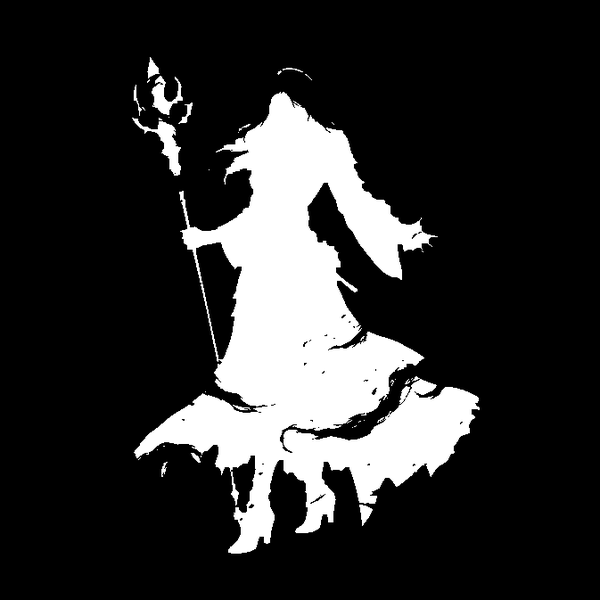
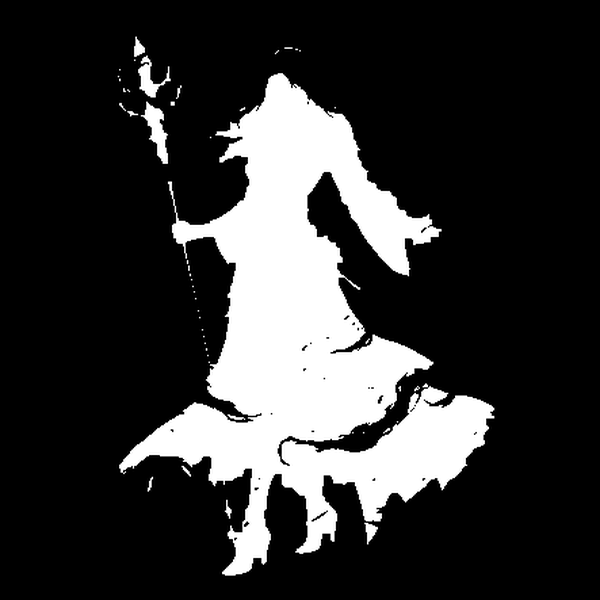
fix: remove panel-edge alpha artifacts

Changed region(s): [[0.21, 0.06, 0.75, 0.72], [0.18, 0.57, 0.78, 0.96], [0.6, 0.66, 0.84, 0.9]]

diff --git a/generate-transparent-image/scripts/recover_alpha.py b/generate-transparent-image/scripts/recover_alpha.py
@@ -68,6 +68,15 @@ def parse_args() -> argparse.Namespace:
         help="Pixels removed from the opaque-core mask edge before forcing alpha (default: 2).",
     )
     parser.add_argument(
+        "--edge-cleanup",
+        choices=("off", "auto", "aggressive"),
+        default="auto",
+        help=(
+            "Remove panel-border residue from guaranteed blank margins "
+            "(default: auto)."
+        ),
+    )
+    parser.add_argument(
         "--strict",
         action="store_true",
         help="Exit with status 2 when diagnostics grade the recovery as fail.",
@@ -372,20 +381,6 @@ def solve_rgba(
     foreground[alpha < 0.004] = 0.0
     alpha[alpha < 0.002] = 0.0
 
-    # Paired generations occasionally add a one-pixel canvas/seam highlight at
-    # the outer panel edge. Prompts require generous subject padding, so panel
-    # border pixels are guaranteed background and can be cleared safely. This
-    # prevents a thin vertical line from expanding the final content crop.
-    border_guard = max(1, int(round(min(alpha.shape) * 0.003)))
-    alpha[:border_guard] = 0.0
-    alpha[-border_guard:] = 0.0
-    alpha[:, :border_guard] = 0.0
-    alpha[:, -border_guard:] = 0.0
-    foreground[:border_guard] = 0.0
-    foreground[-border_guard:] = 0.0
-    foreground[:, :border_guard] = 0.0
-    foreground[:, -border_guard:] = 0.0
-
     active = valid & (alpha > 0.02)
     opaque_enough = valid & (alpha > 0.10)
     if int(active.sum()) < 16:
@@ -405,6 +400,106 @@ def solve_rgba(
     }
     rgba = np.dstack([foreground, alpha]).astype(np.float32)
     return rgba, residual_norm, metrics
+
+
+def _thin_runs(values: np.ndarray, maximum_width: int) -> list[tuple[int, int]]:
+    """Return half-open runs of true values no wider than maximum_width."""
+    padded = np.pad(values.astype(np.int8), (1, 1))
+    transitions = np.diff(padded)
+    starts = np.flatnonzero(transitions == 1)
+    ends = np.flatnonzero(transitions == -1)
+    return [
+        (int(start), int(end))
+        for start, end in zip(starts, ends)
+        if 0 < end - start <= maximum_width
+    ]
+
+
+def edge_artifact_mask(
+    alpha: np.ndarray, mode: str = "auto"
+) -> tuple[np.ndarray, dict[str, float]]:
+    """Detect frame/seam residue only inside guaranteed blank panel margins.
+
+    Generated paired masters sometimes contain a faint rectangular frame one
+    or two pixels inside a panel. A simple crop keeps that frame because it is
+    non-zero alpha. The prompt protocol requires subject padding, so clearing a
+    narrow outer guard and isolated long straight runs there is safer than
+    eroding the subject matte.
+    """
+    h, w = alpha.shape
+    if mode == "off":
+        return np.zeros((h, w), dtype=bool), {
+            "edge_cleanup_pixels_removed": 0.0,
+            "edge_cleanup_fraction_removed": 0.0,
+            "edge_cleanup_max_alpha_removed": 0.0,
+            "edge_cleanup_line_runs_removed": 0.0,
+            "edge_cleanup_guard_pixels": 0.0,
+        }
+
+    aggressive = mode == "aggressive"
+    short = min(h, w)
+    guard = max(2, int(round(short * (0.025 if aggressive else 0.015))))
+    scan = max(guard + 1, int(round(short * (0.12 if aggressive else 0.08))))
+    scan = min(scan, max(guard + 1, short // 3))
+    weak_limit = 0.10 if aggressive else 0.06
+    occupancy_limit = 0.35 if aggressive else 0.55
+    max_line_width = max(2, int(round(short * (0.020 if aggressive else 0.012))))
+    support = alpha > (0.008 if aggressive else 0.01)
+
+    edge_zone = np.zeros((h, w), dtype=bool)
+    edge_zone[:scan] = True
+    edge_zone[-scan:] = True
+    edge_zone[:, :scan] = True
+    edge_zone[:, -scan:] = True
+
+    removal = np.zeros((h, w), dtype=bool)
+    removal[:guard] = True
+    removal[-guard:] = True
+    removal[:, :guard] = True
+    removal[:, -guard:] = True
+    removal |= edge_zone & (alpha < weak_limit)
+
+    column_occupancy = support.mean(axis=0)
+    row_occupancy = support.mean(axis=1)
+    outer_columns = np.zeros(w, dtype=bool)
+    outer_rows = np.zeros(h, dtype=bool)
+    outer_columns[:scan] = True
+    outer_columns[-scan:] = True
+    outer_rows[:scan] = True
+    outer_rows[-scan:] = True
+
+    line_runs = 0
+    for start, end in _thin_runs(
+        outer_columns & (column_occupancy >= occupancy_limit), max_line_width
+    ):
+        removal[:, start:end] = True
+        line_runs += 1
+    for start, end in _thin_runs(
+        outer_rows & (row_occupancy >= occupancy_limit), max_line_width
+    ):
+        removal[start:end, :] = True
+        line_runs += 1
+
+    removed = removal & (alpha > 0.0)
+    removed_count = int(removed.sum())
+    return removal, {
+        "edge_cleanup_pixels_removed": float(removed_count),
+        "edge_cleanup_fraction_removed": float(removed_count / max(alpha.size, 1)),
+        "edge_cleanup_max_alpha_removed": float(alpha[removed].max())
+        if removed_count
+        else 0.0,
+        "edge_cleanup_line_runs_removed": float(line_runs),
+        "edge_cleanup_guard_pixels": float(guard),
+    }
+
+
+def apply_edge_cleanup(
+    rgba: np.ndarray, mode: str = "auto"
+) -> tuple[np.ndarray, np.ndarray, dict[str, float]]:
+    removal, metrics = edge_artifact_mask(rgba[..., 3], mode)
+    output = rgba.copy()
+    output[removal] = 0.0
+    return output, removal, metrics
 
 
 def parse_aspect(value: str | None) -> float | None:
@@ -695,6 +790,17 @@ def main() -> int:
         )
         metrics.update(material_metrics)
 
+    rgba, edge_removal, edge_metrics = apply_edge_cleanup(rgba, args.edge_cleanup)
+    soft_rgba = soft_rgba.copy()
+    soft_rgba[edge_removal] = 0.0
+    if core_mask is not None:
+        core_mask = core_mask.copy()
+        core_mask[edge_removal] = 0.0
+    if soft_mask is not None:
+        soft_mask = soft_mask.copy()
+        soft_mask[edge_removal] = 0.0
+    metrics.update(edge_metrics)
+
     aspect = parse_aspect(args.aspect)
     bounds = final_canvas_bounds(rgba[..., 3], aspect, args.padding)
     final_rgba = fit_to_bounds(rgba, bounds)
@@ -728,6 +834,7 @@ def main() -> int:
         "panel_size": [panel_width, panel_height],
         "final_size": [int(final_rgba.shape[1]), int(final_rgba.shape[0])],
         "requested_aspect": args.aspect,
+        "edge_cleanup": args.edge_cleanup,
         "estimated_black_rgb": [round(float(x), 6) for x in black],
         "estimated_white_rgb": [round(float(x), 6) for x in white],
         "backdrop_contrast": round(contrast, 6),

diff --git a/generate-transparent-image/tests/test_recover_alpha.py b/generate-transparent-image/tests/test_recover_alpha.py
@@ -36,6 +36,33 @@ def synthetic_subject(size: int = 72) -> tuple[np.ndarray, np.ndarray, np.ndarra
 
 
 class MaterialAwareRecoveryTests(unittest.TestCase):
+    def test_edge_cleanup_removes_panel_frame_without_eroding_subject(self) -> None:
+        size = 160
+        rgba = np.zeros((size, size, 4), dtype=np.float32)
+        rgba[45:120, 58:104, :3] = np.array([0.8, 0.4, 0.2], dtype=np.float32)
+        rgba[45:120, 58:104, 3] = 0.75
+        rgba[2, :, 3] = 0.05
+        rgba[:, 3, 3] = 0.07
+        rgba[:, -4, 3] = 0.42
+
+        cleaned, removed, metrics = RECOVER.apply_edge_cleanup(rgba, "auto")
+
+        self.assertTrue(np.all(cleaned[2, :, 3] == 0.0))
+        self.assertTrue(np.all(cleaned[:, 3, 3] == 0.0))
+        self.assertTrue(np.all(cleaned[:, -4, 3] == 0.0))
+        self.assertTrue(np.allclose(cleaned[45:120, 58:104], rgba[45:120, 58:104]))
+        self.assertTrue(np.all(removed[:, -4]))
+        self.assertGreaterEqual(metrics["edge_cleanup_line_runs_removed"], 1.0)
+        self.assertGreater(metrics["edge_cleanup_max_alpha_removed"], 0.4)
+
+    def test_edge_cleanup_can_be_disabled(self) -> None:
+        rgba = np.zeros((64, 64, 4), dtype=np.float32)
+        rgba[:, 1, 3] = 0.3
+        cleaned, removed, metrics = RECOVER.apply_edge_cleanup(rgba, "off")
+        self.assertTrue(np.array_equal(cleaned, rgba))
+        self.assertFalse(removed.any())
+        self.assertEqual(metrics["edge_cleanup_pixels_removed"], 0.0)
+
     def test_core_is_forced_opaque_while_soft_effect_stays_soft(self) -> None:
         left, right, core, effect = synthetic_subject()
         valid = np.ones(core.shape, dtype=bool)
@@ -108,6 +135,7 @@ class MaterialAwareRecoveryTests(unittest.TestCase):
             report = json.loads((root / "report.json").read_text(encoding="utf-8"))
             self.assertEqual(report["layout"], "material-2x2")
             self.assertEqual(report["core_alpha_p05_after"], 1.0)
+            self.assertEqual(report["edge_cleanup"], "auto")
             for name in [
                 "transparent.png",
                 "alpha.png",

diff --git a/generate-transparent-image/SKILL.md b/generate-transparent-image/SKILL.md
@@ -121,7 +121,7 @@ python3 <skill-dir>/scripts/recover_alpha.py \
 
 The script requires Pillow and NumPy. If the active `python3` lacks them, use the bundled workspace Python reported by `codex_app__load_workspace_dependencies`. Do not silently install packages into the user's environment.
 
-Omit `--aspect` when the user did not request one. Accepted forms include `1:1`, `4:5`, `16:9`, or a decimal. The script estimates actual backdrop colors from the border, aligns the right copy to the left, solves alpha against those backdrops, and writes a diagnostic report.
+Omit `--aspect` when the user did not request one. Accepted forms include `1:1`, `4:5`, `16:9`, or a decimal. The script estimates actual backdrop colors from the border, aligns the right copy to the left, solves alpha against those backdrops, and writes a diagnostic report. Its default `--edge-cleanup auto` removes faint frames and seam residue only inside the guaranteed blank panel margin. Use `--edge-cleanup aggressive` when a visible outer line survives; use `off` only when the requested subject intentionally touches the panel edge.
 
 ### 4. Inspect and gate quality
 
@@ -141,6 +141,7 @@ Treat diagnostic metrics as supporting evidence. High values help locate a probl
 - high `foreground_disagreement_p90`: demand the black and white panels differ only in background pixels;
 - clipping or excessive coverage: demand more padding and a smaller centered subject;
 - noisy background alpha: demand perfectly uniform `#000000` and `#FFFFFF` backgrounds.
+- nonzero `edge_cleanup_line_runs_removed`: inspect the outer margin; the script removed one or more long frame/seam traces without eroding the center matte;
 - low `semantic_support_recall`: demand masks cover every retained core and soft region;
 - high `core_outside_pair_support_fraction`: demand identical mask geometry and placement;
 - high `core_soft_overlap_fraction`: separate solid regions from intended translucent effects.
@@ -167,4 +168,4 @@ C0 = alpha * F + (1 - alpha) * B0
 C1 = alpha * F + (1 - alpha) * B1
 ```
 
-The script estimates `B0` and `B1` from the image border and solves the shared scalar alpha by least squares across RGB. For material-aware 2x2 inputs it registers the semantic masks, erodes the opaque-core boundary, forces only safe solid interiors to alpha 1, and replaces their RGB with the aligned black/white panel average. Soft effects retain pair-recovered alpha. Generative panels are rarely pixel-perfect, so diagnostics are intentionally tolerant and adversarial-background inspection is the final gate.
+The script estimates `B0` and `B1` from the image border and solves the shared scalar alpha by least squares across RGB. It then clears the guaranteed blank outer guard, suppresses weak edge-band noise, and removes only thin long frame/seam runs near panel boundaries. For material-aware 2x2 inputs it registers the semantic masks, erodes the opaque-core boundary, forces only safe solid interiors to alpha 1, and replaces their RGB with the aligned black/white panel average. Soft effects retain pair-recovered alpha. Generative panels are rarely pixel-perfect, so diagnostics are intentionally tolerant and adversarial-background inspection is the final gate.

diff --git a/README.md b/README.md
@@ -4,7 +4,7 @@ A Codex skill for creating straight-alpha PNG assets from text prompts or refere
 
 It renders the subject over black and white in one generated master, aligns both copies, solves alpha locally, and validates the result on checker, black, white, green, and magenta backgrounds. Mixed assets can use a material-aware 2×2 master with separate opaque-core and soft-effect masks.
 
-Status: `v0.2.0-beta`
+Status: `v0.2.1-beta`
 
 ## Install
 
@@ -46,6 +46,8 @@ Each run preserves the generated master, normalized prompt, alpha matte, checker
 | Material 2×2 | black + white + opaque-core mask + soft-effect mask | characters or products mixed with smoke, ink, glow, or sheer material |
 
 The 2×2 mode forces only safe solid interiors to alpha 1. Soft-effect regions retain the alpha recovered from the black/white pair.
+
+Recovery also removes faint panel frames and seam residue from the guaranteed blank outer margin. Use `--edge-cleanup aggressive` only when a visible edge line survives the default automatic pass.
 
 ## Examples
 
@@ -141,7 +143,7 @@ python3 generate-transparent-image/scripts/recover_alpha.py \
 python3 -m unittest discover -s generate-transparent-image/tests -v
 ```
 
-The current suite covers paired recovery, material 2×2 recovery, opaque-core correction, soft-effect priority, mask registration, and CLI outputs.
+The current suite covers paired recovery, material 2×2 recovery, opaque-core correction, soft-effect priority, mask registration, edge-frame cleanup, and CLI outputs.
 
 ## Limits
 
